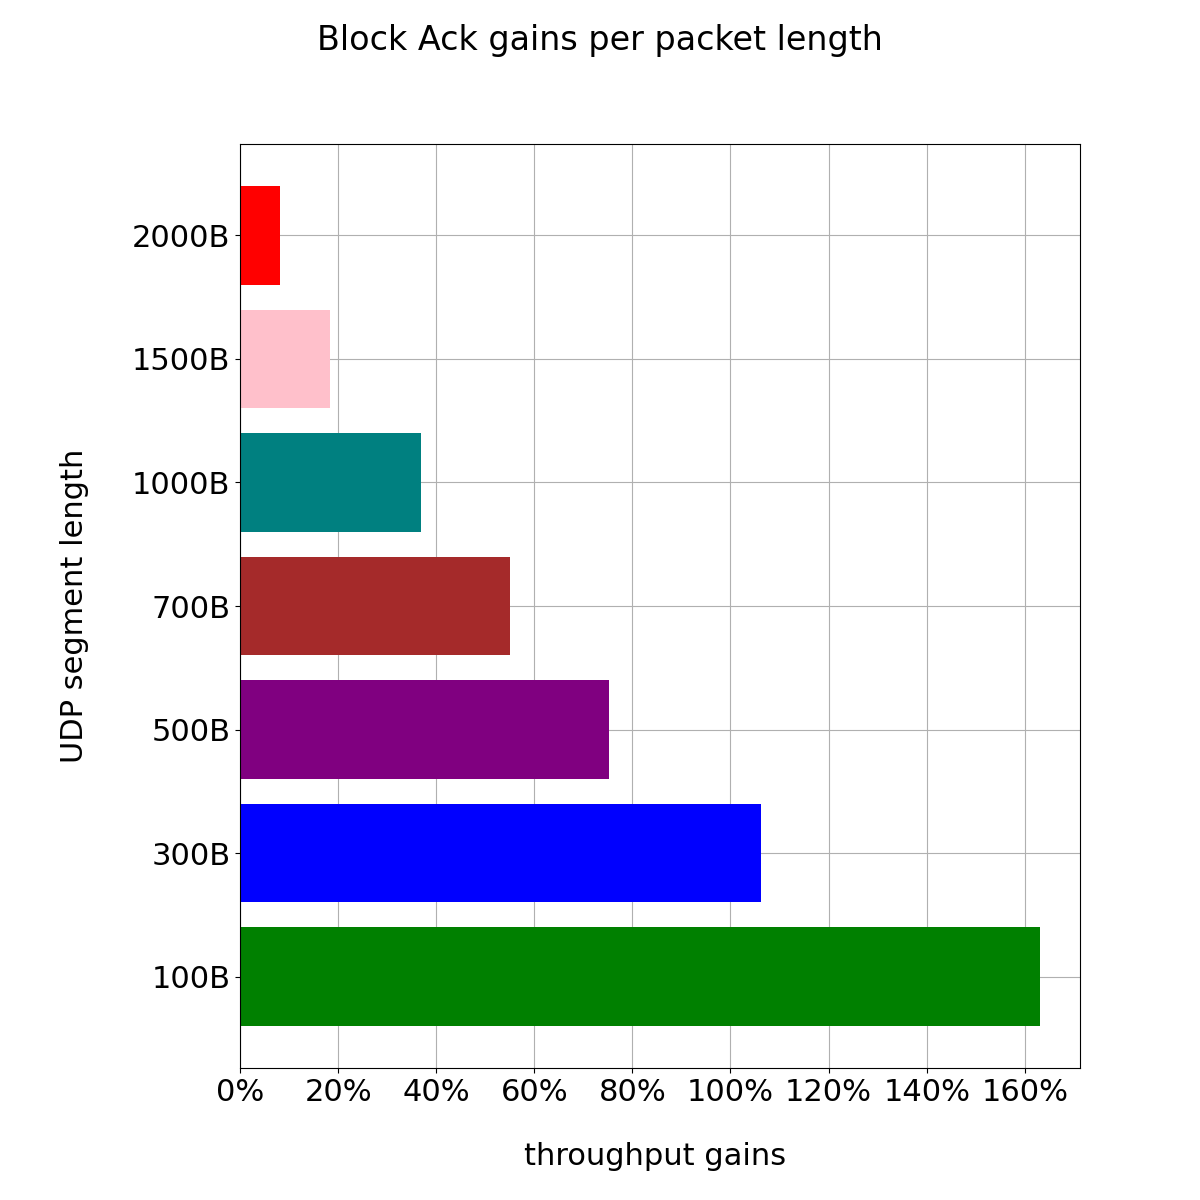
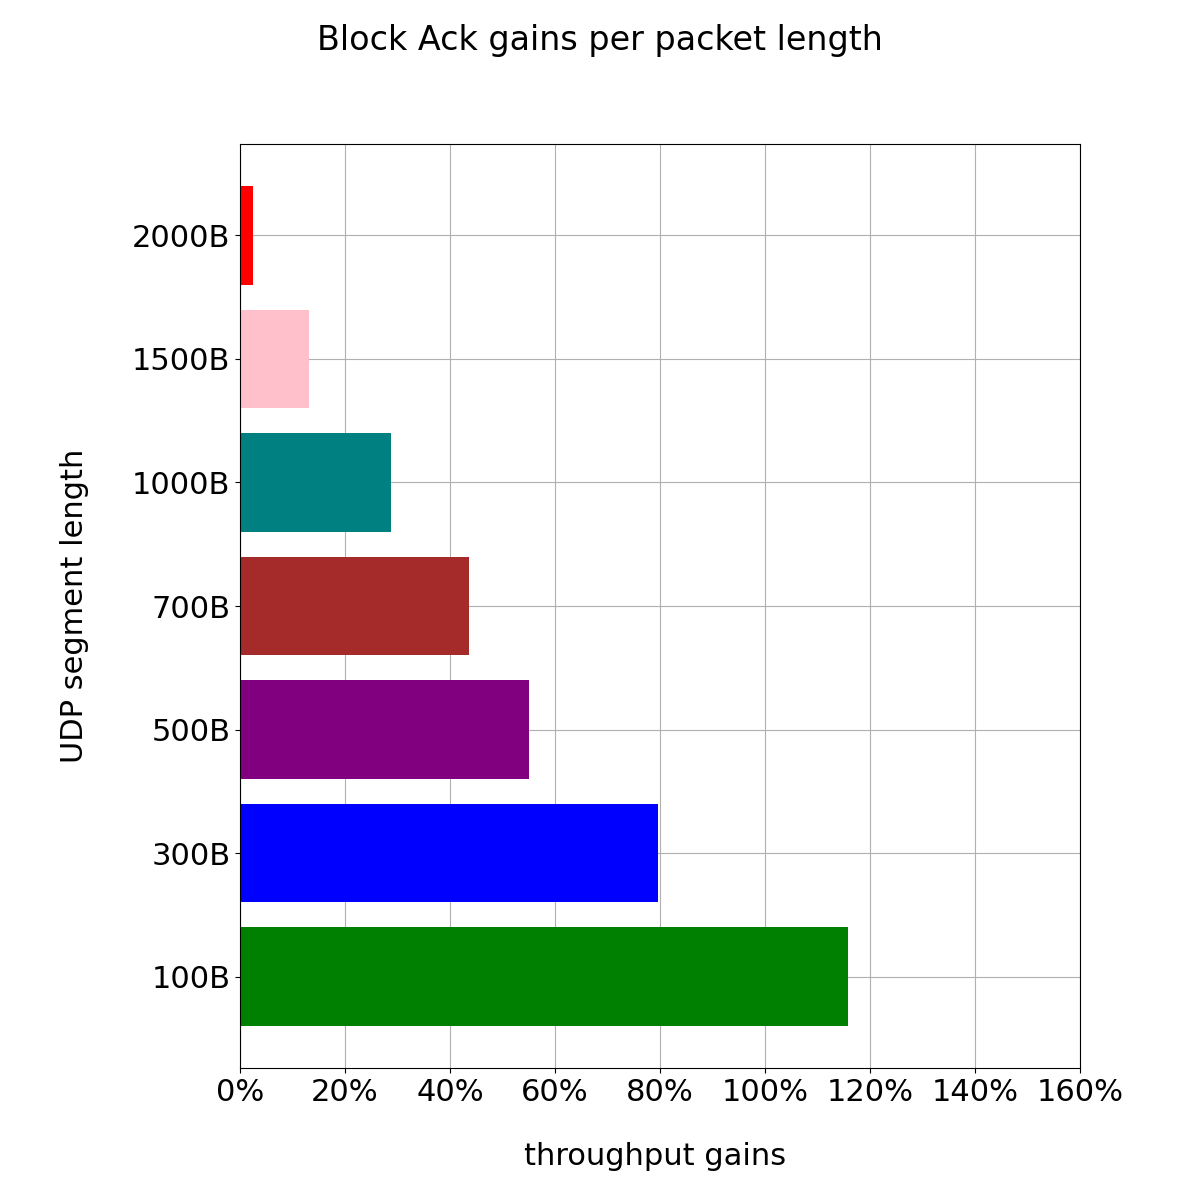
readme update

diff --git a/README.md b/README.md
@@ -1,0 +1,99 @@
+# Wi-Fi Throughput with Block ACKs
+
+This repository contains code and simulation configurations for analyzing Wi-Fi throughput using Block Acknowledgment (Block ACK) a technique introduced in the 802.11e standard and later standardized in 802.11n, allowing multiple frame acknowledgments to be grouped together to improve communication efficiency.
+
+The goal is to simulate different network scenarios and compare the throughput with and without the use of Block ACK to study its effectivness.
+
+  ![Throughput Comparison](ComparisonBAvsnoBA.png)
+## Requirements
+
+- [Omnet++](https://omnetpp.org/) for simulation
+- INET Framework for simulating network protocols
+- Python (for data analysis and visualization)
+
+
+## Setup 
+
+1. Install Omnet++ and the INET Framework.
+2. Clone the repository:
+   ```bash
+   git clone https://github.com/Zanotto-Enrico/OmnetppBlockAck/
+   cd OmnetppBlockAck
+   ```
+3. To run the simulations, follow these steps:
+   - Launch Omnet++.
+   - Load the INET Framework.
+   - Open one of the `.ini` configuration files from the `simulation` directory.
+   - Run the simulation with the Omnet++ IDE or in the terminal wiht `opp_run`.
+4. Results will be saved as `.vec .vci .sca` files in the `results/` directory, .
+
+## Simulation Configurations
+
+### NormalRun
+
+This configuration simulates standard UDP communication without Block ACK.
+
+```ini
+[Config NormalRun]
+description = "1500B packets, no fragmentation, no BlockAck"
+*.sourceHost.app[*].messageLength = 1500byte
+*.sourceHost.app[*].sendInterval = ${packetLength} * 8 / ${bitrate} * 1us
+*.*Host.wlan[*].mac.hcf.isBlockAckSupported = false
+```
+
+### BlockAck
+
+This configuration simulates communication with Block ACK enabled and a frame threshold of 16.
+
+```ini
+[Config BlockAck]
+description = "1500B packets, no fragmentation, BlockAck with threshold of 16"
+*.sourceHost.app[*].messageLength = 1500byte
+*.sourceHost.app[*].sendInterval = ${packetLength} * 8 / ${bitrate} * 1us
+*.*Host.wlan[*].mac.hcf.isBlockAckSupported = true
+*.*Host.wlan[*].mac.hcf.originatorAckPolicy.blockAckReqThreshold = 16
+```
+
+### BlockAckThresholds
+
+This configuration allows to compare the effective gains in performance of sessions with Block ACK to sessions without it using different frame thresholds
+
+```ini
+[Config blockAckThresholds]
+description = "comparing different frames thresholds before sending the BA"
+*.*Host.wlan[*].mac.hcf.originatorAckPolicy.blockAckReqThreshold = 4, 8, 12, 16, 20, 24, 32, 64
+```
+
+### BlockAckFragmentations
+
+This configuration allows to compare the effective gains in performance of sessions with Block ACK to sessions without it using different frame length
+
+```ini
+[Config blockAckFragmentations]
+description = "comparing BlockAck vs NoBlockAck with different frames length"
+*.sourceHost.app[*].messageLength = ${packetLength = 100,300,500,700,1000,1500,2000}byte
+*.sourceHost.app[*].sendInterval = ${packetLength} * 8 / ${bitrate} * 1us
+*.*Host.wlan[*].mac.hcf.isBlockAckSupported = ${isBlockAckSupported=true,false}
+*.*Host.wlan[*].mac.hcf.originatorAckPolicy.blockAckReqThreshold = 64
+```
+## Results and Analysis
+
+After running the simulations, the data has been analyzed using the provided Python scripts. The analysis calculated throughput with different payload sizes and Block ACK thresholds.
+The graphs generated will be saved in the `images/` directory.
+
+- **Throughput Comparison (No Block ACK vs Block ACK)**:
+  - Displays the difference in throughput when using Block ACK versus the traditional acknowledgment method with different frame number thresholds.
+  ![Throughput Comparison](ComparisonBAvsnoBA.png) 
+
+- **Throughput Gain with Fragmentation**:
+  - A series of bar graphs divided by the frame length showing the average Throughput when Block ACK is used based on the frame number threshold set in the communication.
+  The black line represents the theoretical calculated value
+  ![Throughput Gain](SizesComparison.png) 
+
+
+- **Throughput Gain with Block ACK**:
+  - A bar graph showing the percentage gain in throughput when Block ACK is used based on the average size of the frame sent.
+<p align="center">
+  <img src="BlockAckGains.png" alt="description" style="width:60%;">
+</p>
+
